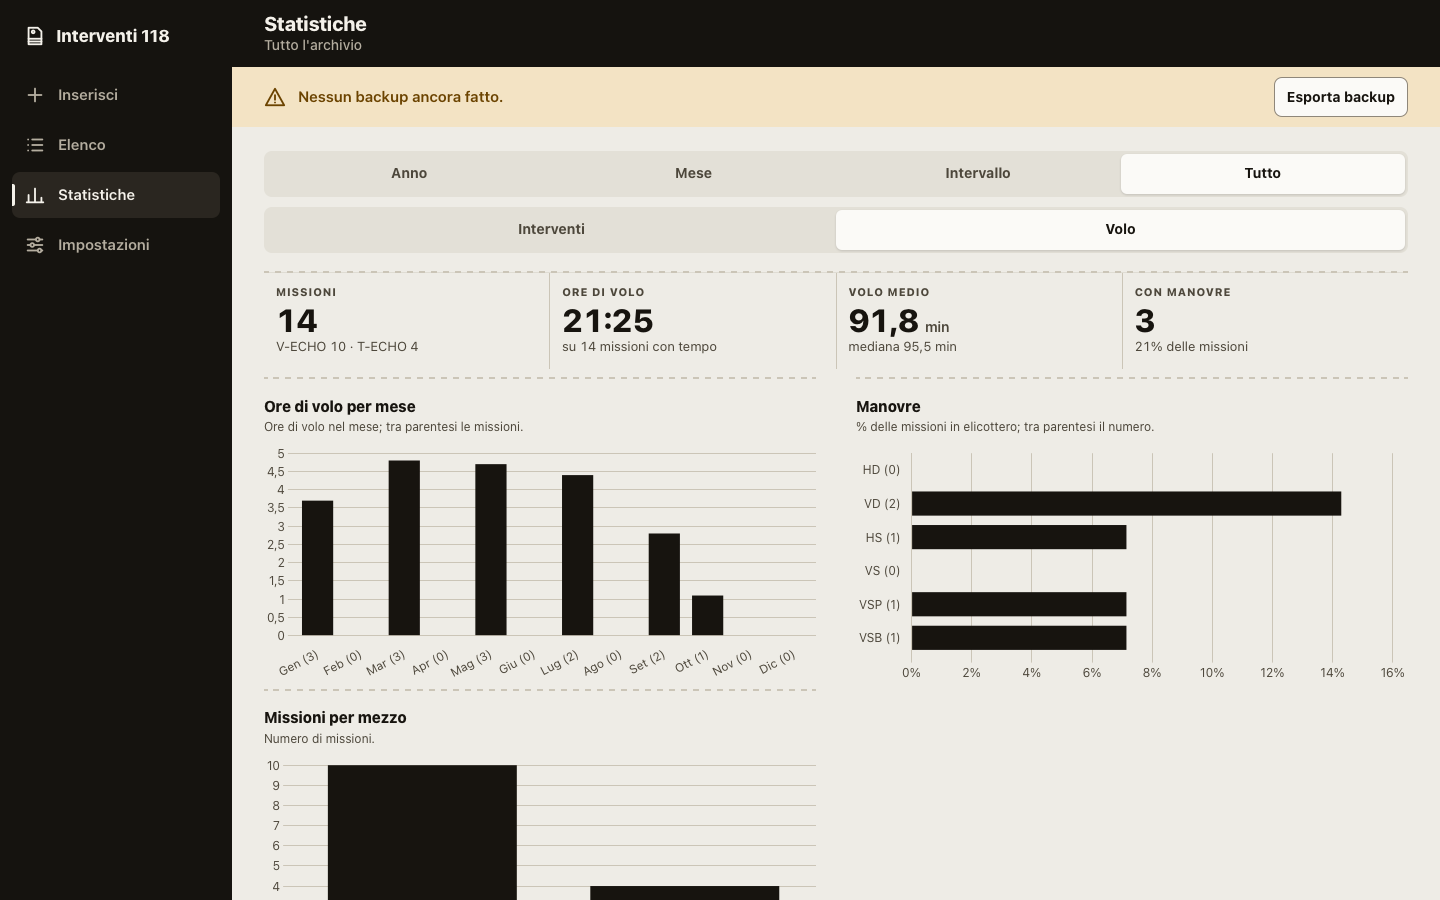
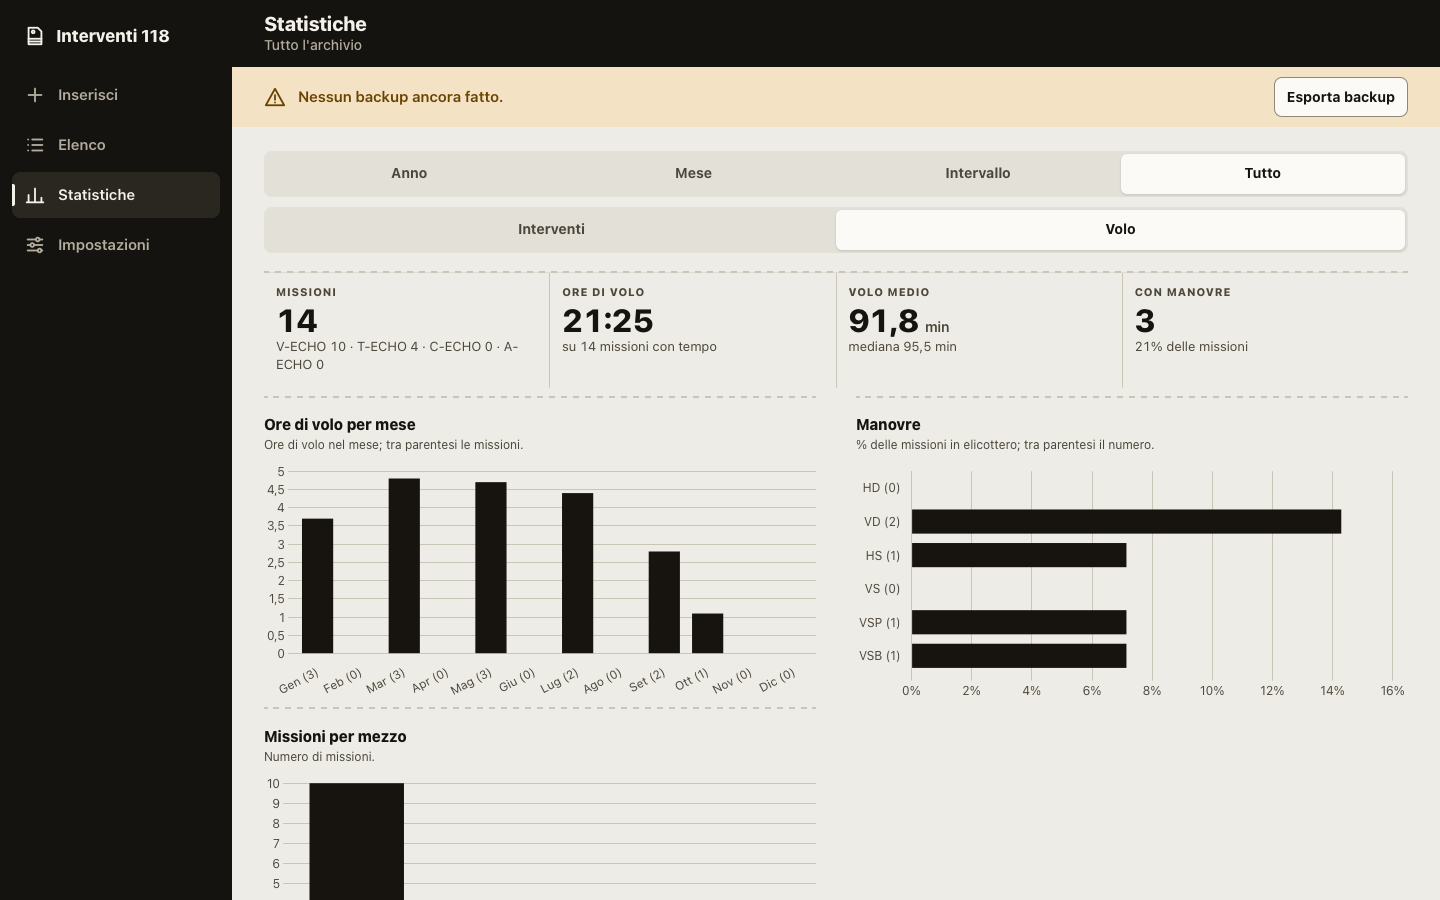
Elicotteri C-ECHO e A-ECHO, trattati come V-ECHO e T-ECHO; versione 1.2.0
Sezione Volo, avvisi e statistiche di volo valgono anche per i due mezzi nuovi.
Sono voci di sistema: le liste salvate prima li ricevono in fondo, con l'id predefinito.

diff --git a/tests/campi.test.js b/tests/campi.test.js
@@ -49,9 +49,10 @@ test('normalizzazione: i campi mancanti diventano vuoti', () => {
 
 test('le liste predefinite dell\'app sono quelle del foglio "Liste"', { skip: !existsSync(IMPORT) && 'manca data/interventi_import.json: esegui tools/xlsx_to_json.py' }, () => {
   const daExcel = JSON.parse(readFileSync(IMPORT, 'utf8')).liste;
-  // tipoMissione viene dall'Excel HEMS: nel foglio "Liste" del 118 non c'è
+  // tipoMissione viene dall'Excel HEMS e C-ECHO e A-ECHO sono arrivati dopo: nel foglio "Liste" del 118 non ci sono
+  const dopo = ['C-ECHO', 'A-ECHO'];
   const semplifica = (liste) => Object.fromEntries(Object.keys(daExcel).map((nome) => [
-    nome, liste[nome].map(({ id, voce, attiva, sistema }) => ({ id, voce, attiva, sistema })),
+    nome, liste[nome].filter((v) => !dopo.includes(v.voce)).map(({ id, voce, attiva, sistema }) => ({ id, voce, attiva, sistema })),
   ]));
   assert.deepEqual(semplifica(LISTE_PREDEFINITE), semplifica(daExcel));
 });
@@ -60,7 +61,7 @@ test('le voci di sistema includono quelle che reggono formule e controlli', () =
   const sistema = (nome) => LISTE_PREDEFINITE[nome].filter((v) => v.sistema).map((v) => v.voce);
   assert.deepEqual(sistema('esito'), ['Trasportato', 'Deceduto', 'Annullato da CO', 'Non Raggiungibile']);
   assert.deepEqual(sistema('codiceRientro'), ['VERDE', 'GIALLO', 'ROSSO', 'NERO']);
-  assert.deepEqual(sistema('mezzo'), ['3040', '5022', '5024', 'V-ECHO', 'T-ECHO']);
+  assert.deepEqual(sistema('mezzo'), ['3040', '5022', '5024', 'V-ECHO', 'T-ECHO', 'C-ECHO', 'A-ECHO']);
   assert.deepEqual(sistema('ospedale'), []);
 });
 
@@ -78,7 +79,8 @@ test('normalizzazione: campi di volo vuoti, tempo come l\'età, manovre ripulite
 });
 
 test('elicotteri e lista dei tipi di missione', () => {
-  assert.ok(isElicottero('V-ECHO') && isElicottero('T-ECHO') && !isElicottero('3030') && !isElicottero(''));
+  assert.ok(['V-ECHO', 'T-ECHO', 'C-ECHO', 'A-ECHO'].every(isElicottero));
+  assert.ok(!isElicottero('3030') && !isElicottero('') && !isElicottero('c-echo'));
   assert.deepEqual(LISTE_PREDEFINITE.tipoMissione.map((v) => v.voce), ['HEMS', 'HSR', 'IFT']);
   assert.ok(LISTE_PREDEFINITE.tipoMissione.every((v) => !v.sistema));
 });
@@ -89,7 +91,7 @@ test('allineaVociSistema blocca V-ECHO e T-ECHO anche in una lista salvata senza
     { id: 'mezzo-3030', voce: '3030', attiva: true, sistema: false, updatedAt: '2026-01-01T00:00:00.000Z' },
   ] };
   const allineata = allineaVociSistema(salvata);
-  assert.deepEqual(allineata.mezzo.map((v) => v.sistema), [true, false]);
+  assert.deepEqual(allineata.mezzo.slice(0, 2).map((v) => v.sistema), [true, false]);
   assert.equal(allineata.mezzo[0].updatedAt, '2026-01-01T00:00:00.000Z');
   assert.equal(salvata.mezzo[0].sistema, false, 'non modifica l\'oggetto di partenza');
 });
@@ -100,6 +102,27 @@ test('allineaVociSistema riattiva un elicottero disattivato prima che diventasse
     { id: 'mezzo-v-echo', voce: 'V-ECHO', attiva: false, sistema: true, updatedAt: '2026-01-01T00:00:00.000Z' },
     { id: 'mezzo-7050', voce: '7050', attiva: false, sistema: false, updatedAt: '2026-01-01T00:00:00.000Z' },
   ] };
-  assert.deepEqual(allineaVociSistema(salvata).mezzo.map((v) => [v.voce, v.sistema, v.attiva]),
+  assert.deepEqual(allineaVociSistema(salvata).mezzo.slice(0, 3).map((v) => [v.voce, v.sistema, v.attiva]),
     [['T-ECHO', true, true], ['V-ECHO', true, true], ['7050', false, false]]);
+});
+
+test('allineaVociSistema aggiunge in fondo C-ECHO e A-ECHO a una lista salvata prima, una volta sola', () => {
+  const salvata = { mezzo: LISTE_PREDEFINITE.mezzo.filter((v) => !['C-ECHO', 'A-ECHO'].includes(v.voce)) };
+  salvata.mezzo.push({ id: 'mezzo-9999', voce: '9999', attiva: true, sistema: false, updatedAt: '2026-05-01T00:00:00.000Z' });
+  const allineata = allineaVociSistema(salvata);
+  assert.deepEqual(allineata.mezzo.slice(-3).map(({ id, voce, attiva, sistema, updatedAt }) => [id, voce, attiva, sistema, updatedAt]), [
+    ['mezzo-9999', '9999', true, false, '2026-05-01T00:00:00.000Z'],
+    ['mezzo-c-echo', 'C-ECHO', true, true, '1970-01-01T00:00:00.000Z'],
+    ['mezzo-a-echo', 'A-ECHO', true, true, '1970-01-01T00:00:00.000Z'],
+  ]);
+  assert.deepEqual(allineaVociSistema(allineata), allineata, 'già allineata: resta com\'è');
+  assert.equal(salvata.mezzo.length, LISTE_PREDEFINITE.mezzo.length - 1, 'non modifica la lista di partenza');
+});
+
+test('allineaVociSistema: C-ECHO già aggiunto a mano diventa di sistema, senza doppioni', () => {
+  const salvata = { mezzo: [
+    { id: 'mezzo-c-echo', voce: 'C-ECHO', attiva: false, sistema: false, updatedAt: '2026-05-01T00:00:00.000Z' },
+  ] };
+  const cEcho = allineaVociSistema(salvata).mezzo.filter((v) => v.voce === 'C-ECHO');
+  assert.deepEqual(cEcho.map(({ id, attiva, sistema }) => [id, attiva, sistema]), [['mezzo-c-echo', true, true]]);
 });

diff --git a/tests/volo.test.js b/tests/volo.test.js
@@ -33,7 +33,9 @@ test('basi, KPI e tempo di volo: solo elicotteri, eliminati esclusi', () => {
   const s = calcolaStatisticheVolo(RECORD, LISTE_PREDEFINITE, TUTTO);
   assert.deepEqual(s.basi, { missioni: 4, conTempo: 3 });
   assert.deepEqual(s.kpi, {
-    missioni: 4, perMezzo: [{ voce: 'V-ECHO', n: 2 }, { voce: 'T-ECHO', n: 2 }], minutiVolo: 165,
+    missioni: 4,
+    perMezzo: [{ voce: 'V-ECHO', n: 2 }, { voce: 'T-ECHO', n: 2 }, { voce: 'C-ECHO', n: 0 }, { voce: 'A-ECHO', n: 0 }],
+    minutiVolo: 165,
     conTempo: 3, voloMedio: 55, voloMediana: 45, conManovre: 2, conManovrePct: 50,
   });
   assert.deepEqual(s.tempo, { totaleMinuti: 165, media: 55, mediana: 45, minimo: 30, massimo: 90 });
@@ -44,6 +46,8 @@ test('per mezzo e tipo di missione (% sui compilati, riga "Non compilato")', () 
   assert.deepEqual(s.mezzi, [
     { voce: 'V-ECHO', n: 2, pct: 0.5, minutiVolo: 120, voloMedio: 60, conTempo: 2 },
     { voce: 'T-ECHO', n: 2, pct: 0.5, minutiVolo: 45, voloMedio: 45, conTempo: 1 },
+    { voce: 'C-ECHO', n: 0, pct: 0, minutiVolo: 0, voloMedio: null, conTempo: 0 },
+    { voce: 'A-ECHO', n: 0, pct: 0, minutiVolo: 0, voloMedio: null, conTempo: 0 },
   ]);
   assert.deepEqual(s.tipi, {
     voci: [
@@ -78,7 +82,20 @@ test('periodo senza voli: tutto a zero, medie nulle', () => {
   assert.equal(s.tempo.totaleMinuti, 0);
   assert.equal(s.kpi.voloMedio, null);
   assert.equal(s.manovre.almenoUna.pct, 0);
-  assert.deepEqual(s.mezzi.map((m) => m.voloMedio), [null, null]);
+  assert.deepEqual(s.mezzi.map((m) => m.voloMedio), [null, null, null, null]);
+});
+
+test('C-ECHO e A-ECHO contano come V-ECHO e T-ECHO', () => {
+  const record = [
+    r({ id: 'c', data: '2026-06-01', mezzo: 'C-ECHO', tipoMissione: 'HEMS', tempoVolo: 40, manovre: ['HD'] }),
+    r({ id: 'a', data: '2026-06-02', mezzo: 'A-ECHO', tipoMissione: 'IFT', tempoVolo: 80 }),
+    r({ id: 'v', data: '2026-06-03', mezzo: 'V-ECHO', tipoMissione: 'HEMS', tempoVolo: 30 }),
+  ];
+  const s = calcolaStatisticheVolo(record, LISTE_PREDEFINITE, TUTTO);
+  assert.deepEqual(s.basi, { missioni: 3, conTempo: 3 });
+  assert.deepEqual(s.mezzi.map((m) => [m.voce, m.n, m.minutiVolo]),
+    [['V-ECHO', 1, 30], ['T-ECHO', 0, 0], ['C-ECHO', 1, 40], ['A-ECHO', 1, 80]]);
+  assert.equal(s.kpi.conManovre, 1);
 });
 
 test('voce rinominata: la tabella dei tipi usa il nome nuovo, il valore fuori lista compare in fondo', () => {

diff --git a/js/core/campi.js b/js/core/campi.js
@@ -24,7 +24,7 @@ export const CAMPI = [
   { chiave: 'tempoVolo', intestazione: 'TEMPO VOLO (min)', sezione: 'Volo' },
 ];
 
-export const MEZZI_ELICOTTERO = ['V-ECHO', 'T-ECHO'];
+export const MEZZI_ELICOTTERO = ['V-ECHO', 'T-ECHO', 'C-ECHO', 'A-ECHO'];
 export const isElicottero = (mezzo) => MEZZI_ELICOTTERO.includes(mezzo);
 
 /** Colonne HD…VSB del foglio "Voli", nello stesso ordine. */
@@ -65,6 +65,7 @@ const VOCI = {
   mezzo: [
     '3030', '3040', '3050', '3080', '5021', '5022', '5023', '5024', '5035', '5085', '6001', '6021', '6022', '6023',
     '7045', '7046', '7047', '7049', '7050', 'V-ECHO', 'T-ECHO',
+    'C-ECHO', 'A-ECHO', // aggiunti dopo: nel foglio non ci sono
   ],
   tipoMissione: ['HEMS', 'HSR', 'IFT'], // foglio "Liste" dell'Excel HEMS
 };
@@ -95,12 +96,16 @@ export const LISTE_PREDEFINITE = Object.fromEntries(Object.entries(VOCI).map(([n
 /**
  * Le voci di sistema si riconoscono dal nome: vale anche per le liste salvate prima che lo diventassero.
  * Non si possono disattivare, quindi una voce disattivata prima di diventarlo torna attiva.
+ * Quelle che mancano (C-ECHO e A-ECHO nelle liste salvate prima) si aggiungono in fondo, con l'id predefinito,
+ * così due dispositivi le uniscono senza doppioni.
  */
 export function allineaVociSistema(liste) {
   const daAllineare = (nome, v) => (SISTEMA[nome] ?? []).includes(v.voce) && !(v.sistema && v.attiva);
+  const mancanti = (nome, voci) => (LISTE_PREDEFINITE[nome] ?? [])
+    .filter((p) => p.sistema && !voci.some((v) => v.voce === p.voce || v.id === p.id));
   return Object.fromEntries(Object.entries(liste).map(([nome, voci]) => [
     nome,
-    voci.map((v) => (daAllineare(nome, v) ? { ...v, sistema: true, attiva: true } : v)),
+    [...voci.map((v) => (daAllineare(nome, v) ? { ...v, sistema: true, attiva: true } : v)), ...mancanti(nome, voci)],
   ]));
 }
 

diff --git a/js/ui/volo.js b/js/ui/volo.js
@@ -1,8 +1,10 @@
 // Vista "Volo" delle statistiche: KPI, 3 grafici e 5 tabelle di volo del foglio "Statistiche" dell'Excel HEMS.
+import { MEZZI_ELICOTTERO } from '../core/campi.js';
 import { h, conteggio, numero, pct, pctGia, oreMinuti } from './dom.js';
 import { colore, configBarre, schedaGrafico, tabella, unita, voceKpi } from './statistiche.js';
 
 const missioni = (n) => `${conteggio(n)} ${n === 1 ? 'missione' : 'missioni'}`;
+const elicotteri = `${MEZZI_ELICOTTERO.slice(0, -1).join(', ')} o ${MEZZI_ELICOTTERO.at(-1)}`;
 
 function kpi(s) {
   const k = s.kpi;
@@ -78,7 +80,7 @@ export function disegnaVolo(s, tele) {
   if (!s.basi.missioni) {
     return h('div', { class: 'vuoto-stato' },
       h('h2', {}, 'Nessuna missione in elicottero in questo periodo'),
-      h('p', {}, 'La vista Volo conta gli interventi con mezzo V-ECHO o T-ECHO. Scegli un altro anno, mese o intervallo.'));
+      h('p', {}, `La vista Volo conta gli interventi con mezzo ${elicotteri}. Scegli un altro anno, mese o intervallo.`));
   }
   return h('div', {},
     kpi(s),

diff --git a/tests/volo-excel.test.js b/tests/volo-excel.test.js
@@ -9,9 +9,14 @@ import { VOLO_ATTESE, leggiJson, differenze } from './aiuti.js';
 
 const motivo = existsSync(VOLO_ATTESE) ? false : 'manca data/volo_attese.json: esegui tools/attese_volo.py';
 
+/** Il foglio ha le righe solo di V-ECHO e T-ECHO: gli elicotteri arrivati dopo restano fuori dal confronto. */
+const soloDelFoglio = (righe, attese) => righe.filter((m) => attese.some((a) => a.voce === m.voce));
+
 test('le statistiche di volo coincidono con il foglio "Statistiche" dell\'Excel HEMS', { skip: motivo }, () => {
   const { record, attese } = leggiJson(VOLO_ATTESE);
   const s = calcolaStatisticheVolo(record.map(normalizzaRecord), LISTE_PREDEFINITE, { tipo: 'tutto' });
+  s.mezzi = soloDelFoglio(s.mezzi, attese.mezzi);
+  s.kpi.perMezzo = soloDelFoglio(s.kpi.perMezzo, attese.kpi.perMezzo);
   const diff = differenze(s, attese);
   assert.deepEqual(diff, [], `${diff.length} valori diversi dall'Excel HEMS:\n${diff.slice(0, 30).join('\n')}`);
 });

diff --git a/tests/modulo.test.js b/tests/modulo.test.js
@@ -71,8 +71,10 @@ test('manovre: un tocco accende, un secondo tocco spegne, ordine fisso', () => {
 
 test('cambio di mezzo: tra elicotteri i dati di volo restano, verso un\'ambulanza o togliendo il mezzo si svuotano', () => {
   const volo = { ...recordVuoto('x', new Date(2026, 0, 1)), mezzo: 'V-ECHO', tipoMissione: 'HSR', tempoVolo: 50, manovre: ['VD'] };
-  const tEcho = impostaCampo(volo, 'mezzo', 'T-ECHO');
-  assert.deepEqual([tEcho.tipoMissione, tEcho.tempoVolo, tEcho.manovre], ['HSR', 50, ['VD']]);
+  for (const elicottero of ['T-ECHO', 'C-ECHO', 'A-ECHO']) {
+    const r = impostaCampo(volo, 'mezzo', elicottero);
+    assert.deepEqual([r.tipoMissione, r.tempoVolo, r.manovre], ['HSR', 50, ['VD']], elicottero);
+  }
   for (const mezzo of ['3030', '']) {
     const r = impostaCampo(volo, 'mezzo', mezzo);
     assert.deepEqual([r.tipoMissione, r.tempoVolo, r.manovre], ['', null, []], mezzo || 'mezzo tolto');

diff --git a/tests/controlli.test.js b/tests/controlli.test.js
@@ -123,8 +123,10 @@ test('salvataggio: una MISSIONE di un record eliminato si può riusare', () => {
   assert.equal(verificaSalvataggio(rec({ id: 'y' }), [eliminato]).ok, true);
 });
 
-test('volo: tipo missione e tempo mancanti solo per V-ECHO e T-ECHO, anche su record senza i campi nuovi', () => {
-  assert.deepEqual(avvisiDi(rec({ mezzo: 'V-ECHO' })), ['Tipo missione mancante', 'Tempo volo mancante']);
+test('volo: tipo missione e tempo mancanti solo per gli elicotteri, anche su record senza i campi nuovi', () => {
+  for (const mezzo of ['V-ECHO', 'T-ECHO', 'C-ECHO', 'A-ECHO']) {
+    assert.deepEqual(avvisiDi(rec({ mezzo })), ['Tipo missione mancante', 'Tempo volo mancante'], mezzo);
+  }
   assert.deepEqual(avvisiDi(rec({ mezzo: '3030', tipoMissione: '', tempoVolo: null, manovre: [] })), []);
 });
 

diff --git a/js/ui/impostazioni.js b/js/ui/impostazioni.js
@@ -189,7 +189,7 @@ export function mostra(main) {
 
   const info = h('section', { class: 'blocco' },
     h('h2', {}, 'Informazioni'),
-    h('p', {}, 'Interventi 118, versione 1.1.0. I dati restano solo su questo dispositivo: nessun server, nessun account, nessuna statistica d\'uso. Escono solo quando esporti un file.'));
+    h('p', {}, 'Interventi 118, versione 1.2.0. I dati restano solo su questo dispositivo: nessun server, nessun account, nessuna statistica d\'uso. Escono solo quando esporti un file.'));
 
   function disegnaTutto() {
     disegnaDati();

diff --git a/sw.js b/sw.js
@@ -2,7 +2,7 @@
 // Non vede né trasmette dati: gli interventi stanno in IndexedDB, non passano di qui.
 // Cambiando un file dell'app, aggiorna VERSIONE perché i dispositivi scarichino la nuova copia.
 
-const VERSIONE = 'interventi118-v1.1.0';
+const VERSIONE = 'interventi118-v1.2.0';
 const FILE = [
   './',
   'index.html',

diff --git a/js/app.js b/js/app.js
@@ -7,7 +7,7 @@ import * as elenco from './ui/elenco.js';
 import * as statistiche from './ui/statistiche.js';
 import * as impostazioni from './ui/impostazioni.js';
 
-export const VERSIONE_APP = '1.1.0';
+export const VERSIONE_APP = '1.2.0';
 
 const main = document.getElementById('vista');
 let vistaCorrente = null;

diff --git a/tools/xlsx_to_json.py b/tools/xlsx_to_json.py
@@ -49,7 +49,7 @@ VOCI_SISTEMA = {
     "tipologia": {"India", "Mike"},
     "sesso": {"Maschio", "Femmina"},
     "esito": {"Trasportato", "Deceduto", "Annullato da CO", "Non Raggiungibile"},
-    "mezzo": {"3040", "5022", "5024", "V-ECHO", "T-ECHO"},
+    "mezzo": {"3040", "5022", "5024", "V-ECHO", "T-ECHO", "C-ECHO", "A-ECHO"},
 }
 
 

diff --git a/README.md b/README.md
@@ -83,20 +83,20 @@ Infine importa `data/interventi_import.json` in ogni dispositivo, da **Impostazi
 
 ## Volo ed elisoccorso
 
-Per le missioni in elicottero (mezzo **V-ECHO** o **T-ECHO**) il form mostra la sezione **Volo**, dopo "Tempi":
+Per le missioni in elicottero (mezzo **V-ECHO**, **T-ECHO**, **C-ECHO** o **A-ECHO**) il form mostra la sezione **Volo**, dopo "Tempi":
 
 - **Tipo missione:** HEMS, HSR o IFT. È una lista come le altre: si modifica da Impostazioni.
 - **Tempo di volo (min):** i minuti totali di volo della missione. Comprende il rientro in base, quindi può superare la durata.
 - **Manovre:** HD Hovering discesa, VD Verricello discesa, HS Hovering salita, VS Verricello salita, VSP Verricello salita pannolone, VSB Verricello salita barella. Un tocco accende la manovra, il secondo la spegne; se ne possono scegliere più di una.
 
-Se cambi il mezzo e scegli un'ambulanza, i dati di volo si svuotano. Per le missioni in elicottero ci sono tre avvisi in più: **Tipo missione mancante**, **Tempo volo mancante** e **Tempo volo non valido** (deve essere un numero intero da 0 a 600, come nell'Excel HEMS).
+Se passi da un elicottero all'altro i dati di volo restano; se scegli un'ambulanza si svuotano. Per le missioni in elicottero ci sono tre avvisi in più: **Tipo missione mancante**, **Tempo volo mancante** e **Tempo volo non valido** (deve essere un numero intero da 0 a 600, come nell'Excel HEMS).
 
 ### Statistiche di volo
 
-In **Statistiche**, sotto il periodo, c'è l'interruttore **Interventi | Volo**. La vista Volo conta solo le missioni V-ECHO e T-ECHO del periodo e rifà le tabelle di volo del foglio "Statistiche" dell'Excel HEMS, con le stesse formule:
+In **Statistiche**, sotto il periodo, c'è l'interruttore **Interventi | Volo**. La vista Volo conta solo le missioni in elicottero del periodo e rifà le tabelle di volo del foglio "Statistiche" dell'Excel HEMS, con le stesse formule:
 
 - **Basi:** le missioni sono gli interventi in elicottero del periodo; le statistiche del tempo contano solo le missioni con il tempo di volo compilato.
-- **KPI:** missioni (per V-ECHO e T-ECHO), ore di volo, volo medio con la mediana, missioni con almeno una manovra.
+- **KPI:** missioni (per ognuno dei quattro elicotteri), ore di volo, volo medio con la mediana, missioni con almeno una manovra.
 - **Tabelle:**
   - V1 Tempo di volo: totale, media, mediana, minimo, massimo;
   - V2 Per mezzo;
@@ -299,7 +299,7 @@ Scelte fatte dove le formule dell'Excel erano ambigue, confermate prima di scriv
 2. **Missione duplicata:** il salvataggio si blocca solo se inserisci o cambi una MISSIONE mettendo un numero già usato; un duplicato già presente resta modificabile. Il controllo guarda tutto l'archivio, non solo il periodo filtrato.
 3. **Righe senza DATA:** contano solo nella vista "Tutto", non nei filtri per anno, mese o intervallo.
 4. **Tabella per mese:** mostra i mesi del periodo scelto, con l'anno quando il periodo ne copre più di uno.
-5. **Voci di sistema bloccate:** non si rinominano né si disattivano i 4 codici, India/Mike, Maschio/Femmina, Trasportato, Deceduto, Annullato da CO, Non Raggiungibile e i mezzi 3040, 5022, 5024, V-ECHO e T-ECHO. Sono le voci da cui dipendono statistiche e controlli.
+5. **Voci di sistema bloccate:** non si rinominano né si disattivano i 4 codici, India/Mike, Maschio/Femmina, Trasportato, Deceduto, Annullato da CO, Non Raggiungibile e i mezzi 3040, 5022, 5024, V-ECHO, T-ECHO, C-ECHO e A-ECHO. Sono le voci da cui dipendono statistiche e controlli. C-ECHO e A-ECHO non sono nel foglio "Liste" dell'Excel: l'app li aggiunge da sola in fondo alla lista Mezzo, anche su un dispositivo che aveva già le sue liste.
 
 Le statistiche di volo seguono il foglio "Statistiche" dell'Excel HEMS: vedi [Statistiche di volo](#statistiche-di-volo).
 
